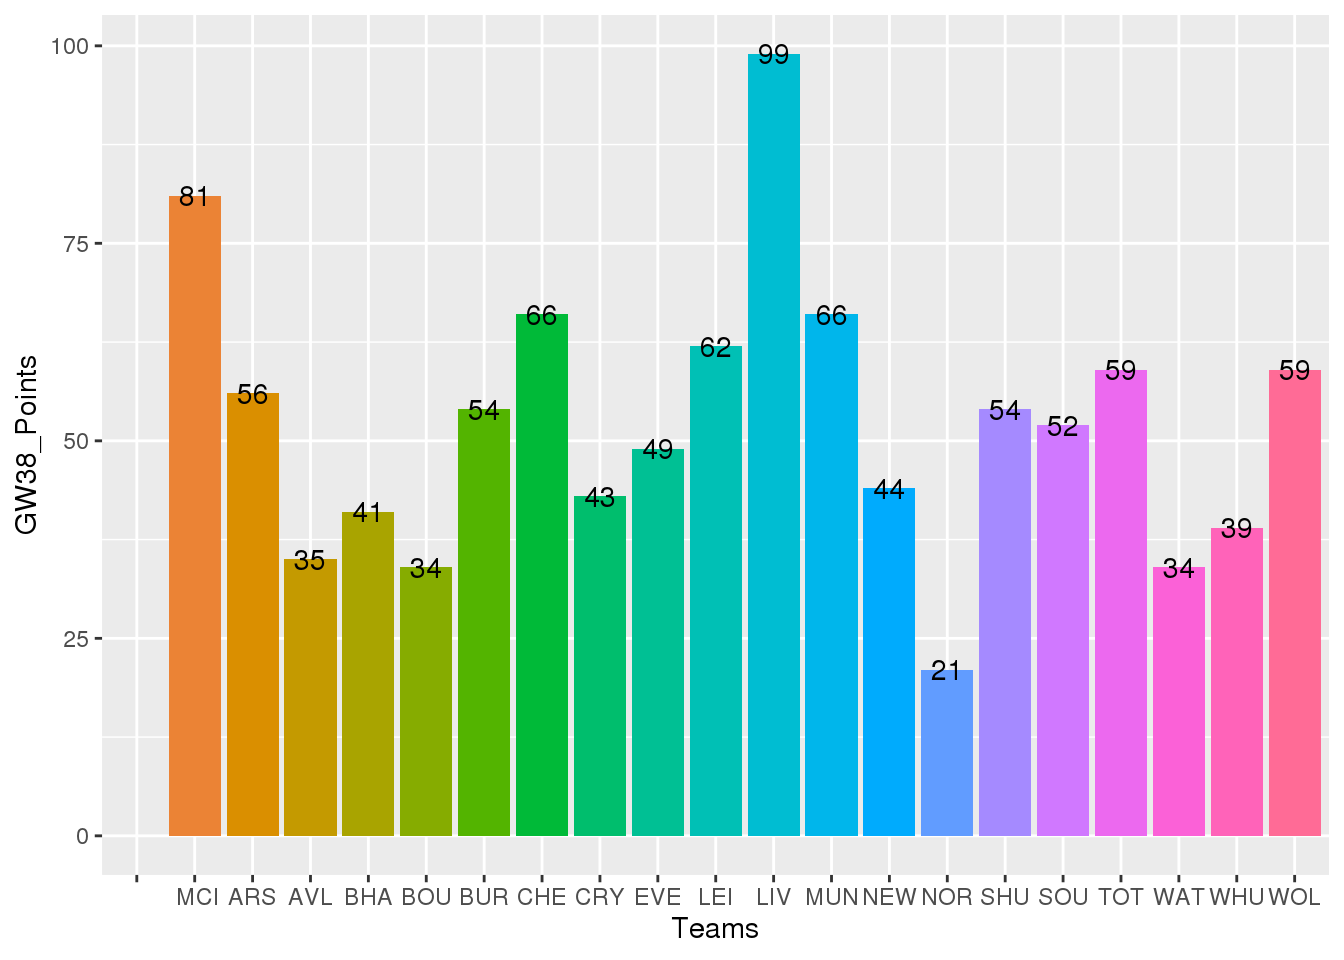
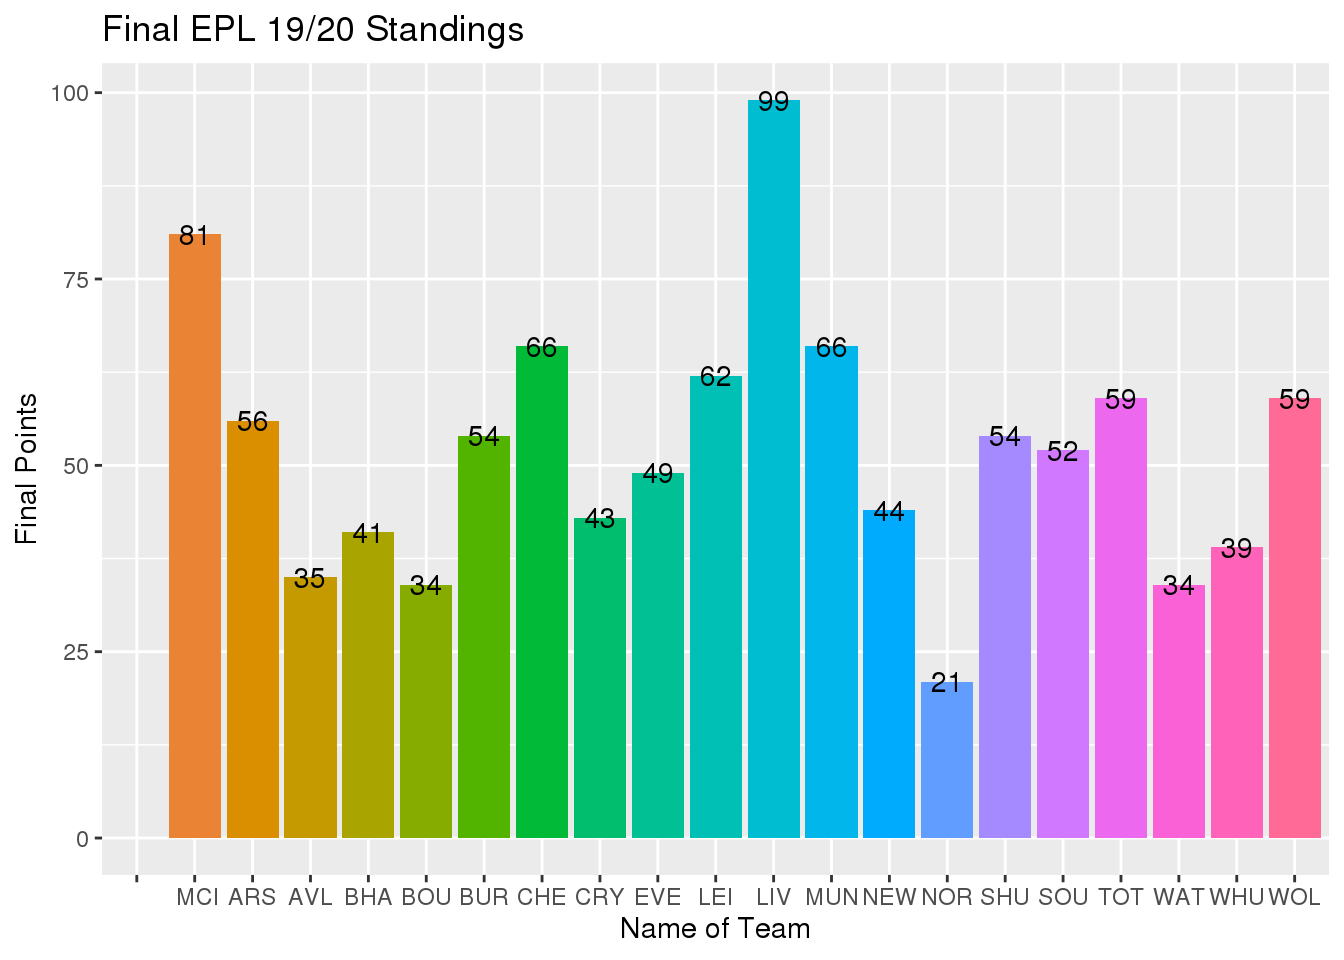
wont count

diff --git a/content/post/2020-12-09-english-premier-league-19-20/index.html b/content/post/2020-12-09-english-premier-league-19-20/index.html
@@ -195,7 +195,7 @@ head(epl2)</code></pre>
     theme(plot.title = element_text(hjust = 0.5))</code></pre>
 <pre><code>## Warning: Continuous x aesthetic -- did you forget aes(group=...)?</code></pre>
 <pre><code>## Warning: Removed 2 rows containing non-finite values (stat_boxplot).</code></pre>
-<pre><code>## Warning: Removed 3 rows containing missing values (geom_point).</code></pre>
+<pre><code>## Warning: Removed 2 rows containing missing values (geom_point).</code></pre>
 <p><img src="index_files/figure-html/unnamed-chunk-4-1.png" width="672" /></p>
 <p>According from the results shown in the boxplot graph, again players above the average height tend to preform better in the assist column too. Most of the black dots appear to be above the blue dotted line. There seems to be one midfielder that has provided more assits’ than any other player respectively. Even the player with the most assist is above the average height of players, measuring at about 182 centimeters tall.</p>
 <p>In the next graph, the boxplot will be comparing man of the match awards vs height of players. The Man of the Math award is given to the single best player of each game based on their performance. The requirements from previous graphs apply to this graph.</p>
@@ -207,8 +207,10 @@ head(epl2)</code></pre>
 <pre><code>## Warning: Continuous x aesthetic -- did you forget aes(group=...)?</code></pre>
 <p><img src="index_files/figure-html/unnamed-chunk-5-1.png" width="672" /></p>
 <p>Finally, the results of this graph answers the question originally asked. In the boxplot shown above, the majority of the points, representing man of the match awards, tend to be above the blue dotted line. So, taller players are more likly to score more goals, provide more assist, and recieve the man of the match award compared to shorter players under the height of 5’7ft.</p>
-<p>#What teams have better player performance?
-In order to answer this question I will analyze players from each team according to their match rating average throughout the season and the amount of Man of the Match awards received by each team. Using column charts, I will group players by their teams and then get the average player rating of each athlete and count all the MOTM awards, and then will compare the results to other teams in the Premier League to figure out which team had the best prforming players.</p>
+</div>
+<div id="what-teams-have-better-player-performance" class="section level1">
+<h1>What teams have better player performance?</h1>
+<p>In order to answer this question I will analyze players from each team according to their match rating average throughout the season and the amount of Man of the Match awards received by each team. Using column charts, I will group players by their teams and then get the average player rating of each athlete and count all the MOTM awards, and then will compare the results to other teams in the Premier League to figure out which team had the best prforming players.</p>
 <p>In this first graph, I compared the total amount of Man of the Match (MOTM) awards per team.</p>
 <pre class="r"><code>epl3 %&gt;% group_by(team) %&gt;% summarise(total_motm = sum(motm)) %&gt;% arrange(desc(total_motm)) %&gt;% 
     ggplot(aes(team, total_motm, fill = team)) + geom_col() + geom_text(aes(label = total_motm)) + 
@@ -224,8 +226,10 @@ In order to answer this question I will analyze players from each team according
     theme(plot.title = element_text(hjust = 0.5))</code></pre>
 <p><img src="index_files/figure-html/unnamed-chunk-7-1.png" width="672" /></p>
 <p>In the graph, only the top 10 teams with the best average player rating was plotted. From the results shown above, the club of Manchester City averaged the highest player rating throughout the season compared to teams around the league. The scale is based out of 10 and is given based on player performance like goals given up, goals scored, tackles lost, ect. So, data shows that Man City led the league, but Liverpool and other follwed shortly behind. Data has tend to show that players from Manchester City and Liverpool preform better in games throughout the season.</p>
-<p>#Which players have scored more goals throughout the season?.
-To figure out this question, I made 4 different graphs to summarize which players tend to scoring more. In the following graphs, the goalkeeper was excluded because it is very unlikely for a goalkeeper to score in games. I asked multiple questions to acquire the most information on which player scores the most. Asking questions like: which position tends to score the most, who are the top goal scorers, what is the highest goals scored per game average, and what teams score the most.</p>
+</div>
+<div id="which-players-have-scored-more-goals-throughout-the-season." class="section level1">
+<h1>Which players have scored more goals throughout the season?.</h1>
+<p>To figure out this question, I made 4 different graphs to summarize which players tend to scoring more. In the following graphs, the goalkeeper was excluded because it is very unlikely for a goalkeeper to score in games. I asked multiple questions to acquire the most information on which player scores the most. Asking questions like: which position tends to score the most, who are the top goal scorers, what is the highest goals scored per game average, and what teams score the most.</p>
 <p>In this column graph, I summarised all the goals scored based off the position played by each player.</p>
 <pre class="r"><code>epl3 %&gt;% filter(position != &quot;Goalkeeper&quot;) %&gt;% select(name, goals, position) %&gt;% group_by(position) %&gt;% 
     summarise(total_goals = sum(goals)) %&gt;% ggplot(aes(position, total_goals, fill = position)) + 
@@ -240,6 +244,10 @@ To figure out this question, I made 4 different graphs to summarize which player
     theme(plot.title = element_text(hjust = 0.5))</code></pre>
 <p><img src="index_files/figure-html/unnamed-chunk-9-1.png" width="672" /></p>
 <p>In the graph shown above, I gatherd the top 8 players with the most goal scored in the 19/20 season. Jamie Vardy that plays for Leicester City was the top goalscorer of the season. Also from the results shown, it is important to notice that 2 players from Liverpool are on the top 8 goalscorers, no other team had more than one player in the top 8. The results above are shown for goals all throughout the season, meaning that players sometimes take games off to rest or if their injured. So, the data does not show which player was the most efficient goalscorer.</p>
+<pre class="r"><code>epl3 %&gt;% mutate(avg_goals_per_game = goals/games) %&gt;% arrange(desc(avg_goals_per_game)) %&gt;% 
+    slice(1:8) %&gt;% ggplot(aes(x = name, y = avg_goals_per_game, fill = team)) + geom_col() + 
+    coord_flip() + geom_text(aes(label = avg_goals_per_game), vjust = -0.5) + xlab(&quot;Name of Player&quot;) + 
+    ylab(&quot;Goals per Game Average&quot;) + ggtitle(&quot;Top Goals per Game Ratio&quot;) + theme(plot.title = element_text(hjust = 0.5))</code></pre>
 <p><img src="index_files/figure-html/unnamed-chunk-10-1.png" width="672" /></p>
 <p>Even though Jamie Vardy was the top goal scorer for the season, he was not the most efficient goal scorer. In the graph above, I mutated the data from the dataset to figure out the ration of goals scored per game played. So, the ratios above portray the goals scored divided by the amount of games played throughout the season. In this case, Sergio Aguero of Manchester City came ontop of any other player, scoring an average of .67 goals per game. Sergio was not to be seen in the previous graph, this could be cause by potential injuries making him miss games. Regardless, the results show two Manchester City players placed in the top 8, while Liverpool and the other teams had only one player place.</p>
 <p>In the final graph of this question, I grouped all the players to their team and added up all the goals each team scored throughout the 2019/2020 season. Then, comparing to other teams to visualuze which team scored the most goals.</p>
@@ -253,18 +261,42 @@ To figure out this question, I made 4 different graphs to summarize which player
 <div id="which-players-have-provided-more-assits-throughout-the-season" class="section level1">
 <h1>Which players have provided more assits throughout the season?</h1>
 <p>Similar to before, to figure out this question I made 4 different graphs to summarize which players tend to assist more. Alike to goals, in the following graphs I asked multiple questions to acquire the most information on which players tend to assist the most. I used the same strategic approach, but this time using assists to compare players around the league.</p>
-<p>First, which position is more in favor of assiting more?
-<img src="index_files/figure-html/unnamed-chunk-12-1.png" width="672" /></p>
+<p>First, which position is more in favor of assiting more?</p>
+<pre class="r"><code>epl3 %&gt;% filter(position != &quot;Goalkeeper&quot;) %&gt;% select(name, assists, position) %&gt;% 
+    group_by(position) %&gt;% summarise(total_assists = sum(assists)) %&gt;% ggplot(aes(position, 
+    total_assists, fill = position)) + geom_col() + theme(legend.position = &quot;none&quot;) + 
+    geom_text(aes(label = total_assists)) + ylab(&quot;Total Assists&quot;) + xlab(&quot;Position&quot;) + 
+    ggtitle(&quot;Assists per Position&quot;) + theme(plot.title = element_text(hjust = 0.5))</code></pre>
+<p><img src="index_files/figure-html/unnamed-chunk-12-1.png" width="672" /></p>
 <p>This time around, the data does not seemed to be skewed to one position as before. Midfielders are more inclined to provide assists than any other position. This is because since midfielder have to support the forwards in scoring, they often create plays to get the ball to their forwards. Nevertheless, forwards and defenders are not too far behind in assists.</p>
-<p>Which players have the most assists on the season?
-<img src="index_files/figure-html/unnamed-chunk-13-1.png" width="672" /></p>
+<p>Which players have the most assists on the season?</p>
+<pre class="r"><code>epl3 %&gt;% mutate(avg_assists_per_game = assists/goals) %&gt;% arrange(desc(assists)) %&gt;% 
+    slice(1:8) %&gt;% ggplot(aes(x = name, y = assists, fill = team)) + geom_col() + 
+    coord_flip() + geom_text(aes(label = assists)) + xlab(&quot;Name of Player&quot;) + ylab(&quot;Number of Assists&quot;) + 
+    ggtitle(&quot;19/20 Top Assists&quot;) + theme(plot.title = element_text(hjust = 0.5))</code></pre>
+<p><img src="index_files/figure-html/unnamed-chunk-13-1.png" width="672" /></p>
 <p>In the aspect of having more assists, Kevin De Bruyne is far ahead of any other player, leading the leagues in assists with 20. In the graph above I calculated how many assists each player had and compared them among eachother. There seems to be a trend of of Manchester City and Liverpool players leading the charts in MOTM awards, goals, and now assists. Manchester has 3 of the 8 top assisters in the league, and shortly behind is Liverpool with 2 players in the top 8.</p>
+<pre class="r"><code>epl3 %&gt;% mutate(avg_assists_per_game = assists/games) %&gt;% arrange(desc(avg_assists_per_game)) %&gt;% 
+    slice(1:8) %&gt;% ggplot(aes(x = name, y = avg_assists_per_game, fill = team)) + 
+    geom_col() + coord_flip() + geom_text(aes(label = avg_assists_per_game), vjust = -0.5) + 
+    xlab(&quot;Name of Player&quot;) + ylab(&quot;Assists per Game Average&quot;) + ggtitle(&quot;Top Assists per Game Ratio&quot;) + 
+    theme(plot.title = element_text(hjust = 0.5))</code></pre>
 <p><img src="index_files/figure-html/unnamed-chunk-14-1.png" width="672" /></p>
 <p>Kevin De Bruyne, again, leads the league in assists, but this time he is the most efficient player for assist. For this graph, I used the data from the datasets and calculated the average of assists to games played for each player, and the top 8 best ration are plotted above. Manchester City and Liverpool again have the most players in the top 8 of this category, with two each. Both of these teams have the top assisters, but do they also lead the league in assists?</p>
+<pre class="r"><code>epl3 %&gt;% group_by(team) %&gt;% summarise(total_assists = sum(assists)) %&gt;% ggplot(aes(team, 
+    total_assists, fill = team)) + geom_col() + theme(axis.text.x = element_text(angle = 90)) + 
+    geom_text(aes(label = total_assists)) + theme(legend.position = &quot;none&quot;) + ylab(&quot;Total Assits&quot;) + 
+    xlab(&quot;Team Name&quot;) + ggtitle(&quot;Total Assits per Team&quot;)</code></pre>
 <p><img src="index_files/figure-html/unnamed-chunk-15-1.png" width="672" /></p>
 <p>In the column graph above shows both Liverpool and Man City lead the rest of the league in assists, with the closest behind more than 20 assists. Both teams managed to achieve 69 assists throughout the season, averaging 1.82 assists per game.</p>
-<p>#Conclusion</p>
+</div>
+<div id="conclusion" class="section level1">
+<h1>Conclusion</h1>
 <p>In conclusion, data from the 2019/2020 showed that taller players tended to preform better all around. Also, from this analysis, we learned players from Liverpool and Manchester City lead the charts in almost every category. These teams dominated all throughout the season, scoring the most goals receiving the most MOTM awards, and achieving the most assists. Each team consistently managed to have almost two players in the top 8 of assists and goals. Through data visualization, although some players show to have the most goals or assists, they might not be the most efficient. Even when they lead in these categories, usually another player obtained a better ratio goals/assists per game. Both of these dominated the league, but in the end, Liverpool came out on top as champions, racking up 99 points. Leaving them the sole leader after 38 games, leaving Manchester City 18 points behind.</p>
+<pre class="r"><code>epl2 %&gt;% select(GW38_Points, GW38_Standing, Teams) %&gt;% arrange(desc(GW38_Points)) %&gt;% 
+    ggplot(aes(Teams, GW38_Points, fill = Teams)) + geom_col() + theme(legend.position = &quot;none&quot;) + 
+    geom_text(aes(label = GW38_Points)) + ylab(&quot;Final Points&quot;) + xlab(&quot;Name of Team&quot;) + 
+    ggtitle(&quot;Final EPL 19/20 Standings&quot;)</code></pre>
 <pre><code>## Warning: Removed 1048555 rows containing missing values (position_stack).</code></pre>
 <pre><code>## Warning: Removed 1048555 rows containing missing values (geom_text).</code></pre>
 <p><img src="index_files/figure-html/unnamed-chunk-16-1.png" width="672" /></p>
